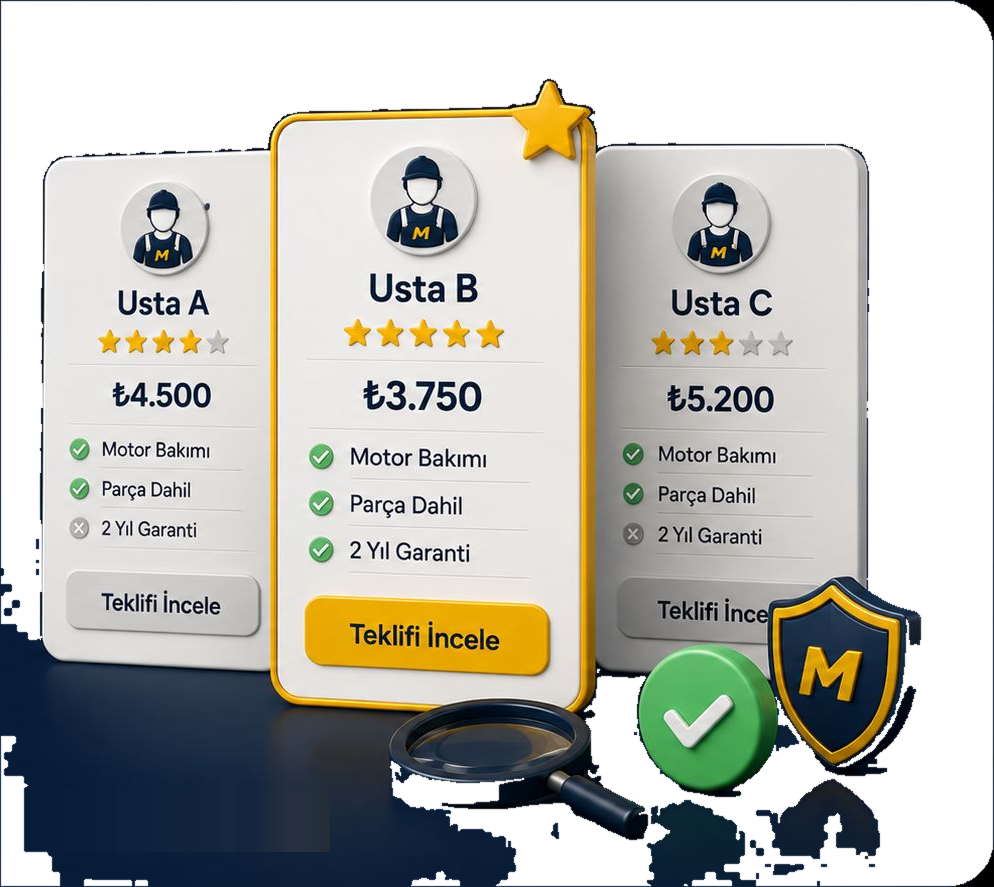
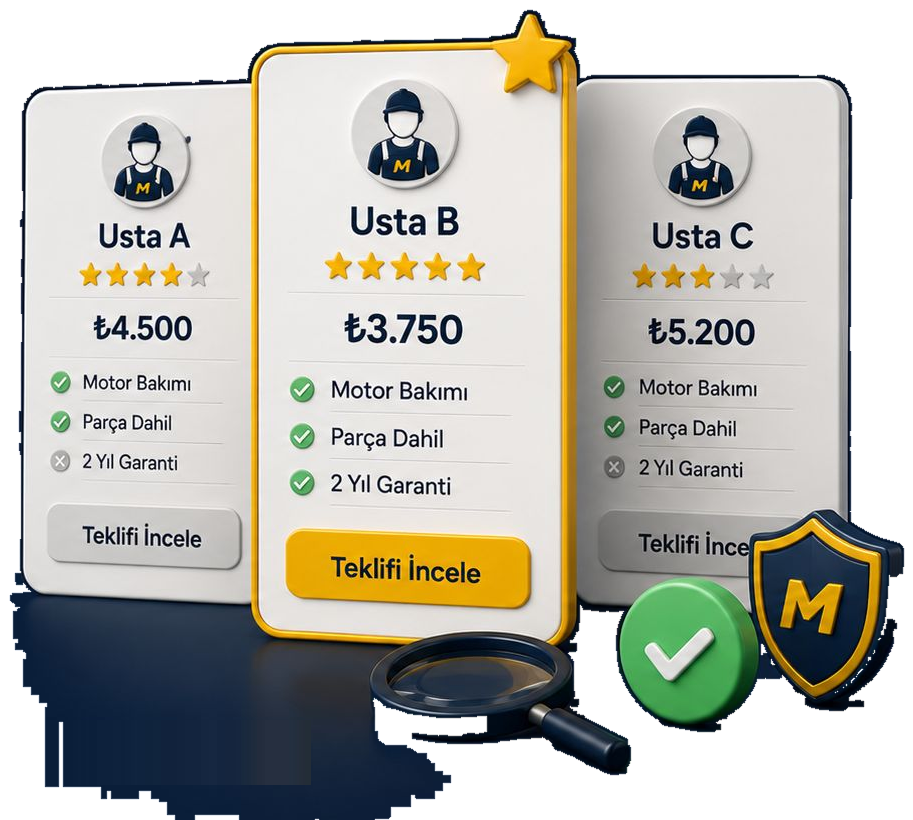
Obje/yazi ayrimini siluet tabanli yap: metin dagilma hatasini duzelt
Onceki dikey cizgiyle bolme yontemi bazi kartlarda ("Ihtiyacin
oldugunda" -> "olduguNDA" gibi) baslik metninin kuyrugunu objeye ait
kesimin icine alip siliyordu, cunku obje ile metin bazi satirlarda
x-araliginda cakisiyordu (orn. tekne govdesi metnin altina kadar
uzaniyor).

Bunun yerine: arka plan flood-fill ile bulunuyor, kalan on-plan
piksellerinde baglantili bilesen analizi yapiliyor, en buyuk bilesen
("asil obje" - takvim+tekne, capa+telefon, buyutec, tekne+tablet,
usta kartlari) siluet olarak cikariliyor. Metin harfleri ayri, kucuk
bilesenler oldugu icin hic dokunulmuyor. Objenin kapladigi bolge,
gercek arka plandan en yakin komsu renkle dolduruluyor (vinyeti
koruyarak).

Claude-Session: https://claude.ai/code/session_01XStbwL6Vr4wVqGDLyMLQ5F

diff --git a/src/screens/home/HomeScreen.tsx b/src/screens/home/HomeScreen.tsx
@@ -49,15 +49,19 @@ type PromoBanner = {
   source: ImageSourcePropType;
   objectSource: ImageSourcePropType;
   objectRelX: number;
+  objectRelY: number;
   objectRelWidth: number;
+  objectRelHeight: number;
   onPress: () => void;
 };
 
 /**
  * Basliklari ve alt yaziyi iceren sabit banner (source) + saginda ayri
  * bir katman olarak hareketlendirilen obje gorseli (objectSource).
- * objectRelX/objectRelWidth, objenin banner icindeki oranli (0-1)
- * konumunu ve genisligini belirtir (1774px kaynak genislige gore).
+ * Obje, kaynak gorseldeki gercek siluetinden (baglantili bilesen analizi
+ * ile, dikdortgen bir kesim degil) cikarildigi icin objectRelX/Y/Width/
+ * Height, objenin banner icindeki oranli (0-1) konumunu ve boyutunu
+ * belirtir (1774x887 kaynak boyuta gore).
  */
 const PROMO_BANNER_ASPECT = 1774 / 887;
 
@@ -65,32 +69,42 @@ const PROMO_IMAGE = {
   calendar: {
     source: require("../../../assets/promo-icons/promo-calendar.png"),
     objectSource: require("../../../assets/promo-icons/promo-calendar-object.png"),
-    objectRelX: 850 / 1774,
-    objectRelWidth: 924 / 1774,
+    objectRelX: 934 / 1774,
+    objectRelY: 103 / 887,
+    objectRelWidth: 828 / 1774,
+    objectRelHeight: 668 / 887,
   },
   support: {
     source: require("../../../assets/promo-icons/promo-support.png"),
     objectSource: require("../../../assets/promo-icons/promo-support-object.png"),
-    objectRelX: 750 / 1774,
-    objectRelWidth: 1024 / 1774,
+    objectRelX: 745 / 1774,
+    objectRelY: 96 / 887,
+    objectRelWidth: 1018 / 1774,
+    objectRelHeight: 714 / 887,
   },
   craftsmen: {
     source: require("../../../assets/promo-icons/promo-craftsmen.png"),
     objectSource: require("../../../assets/promo-icons/promo-craftsmen-object.png"),
-    objectRelX: 900 / 1774,
-    objectRelWidth: 874 / 1774,
+    objectRelX: 944 / 1774,
+    objectRelY: 143 / 887,
+    objectRelWidth: 671 / 1774,
+    objectRelHeight: 710 / 887,
   },
   boat: {
     source: require("../../../assets/promo-icons/promo-boat.png"),
     objectSource: require("../../../assets/promo-icons/promo-boat-object.png"),
-    objectRelX: 700 / 1774,
-    objectRelWidth: 1074 / 1774,
+    objectRelX: 619 / 1774,
+    objectRelY: 49 / 887,
+    objectRelWidth: 1056 / 1774,
+    objectRelHeight: 805 / 887,
   },
   offers: {
     source: require("../../../assets/promo-icons/promo-offers.png"),
     objectSource: require("../../../assets/promo-icons/promo-offers-object.png"),
-    objectRelX: 780 / 1774,
-    objectRelWidth: 994 / 1774,
+    objectRelX: 799 / 1774,
+    objectRelY: 67 / 887,
+    objectRelWidth: 913 / 1774,
+    objectRelHeight: 820 / 887,
   },
 } as const;
 
@@ -479,9 +493,9 @@ function PromoImage({ banner, cardWidth }: { banner: PromoBanner; cardWidth: num
         style={{
           position: "absolute",
           left: banner.objectRelX * cardWidth,
-          top: 0,
+          top: banner.objectRelY * cardHeight,
           width: banner.objectRelWidth * cardWidth,
-          height: cardHeight,
+          height: banner.objectRelHeight * cardHeight,
           transform: [{ scale }, { translateY }],
         }}
         resizeMode="contain"
